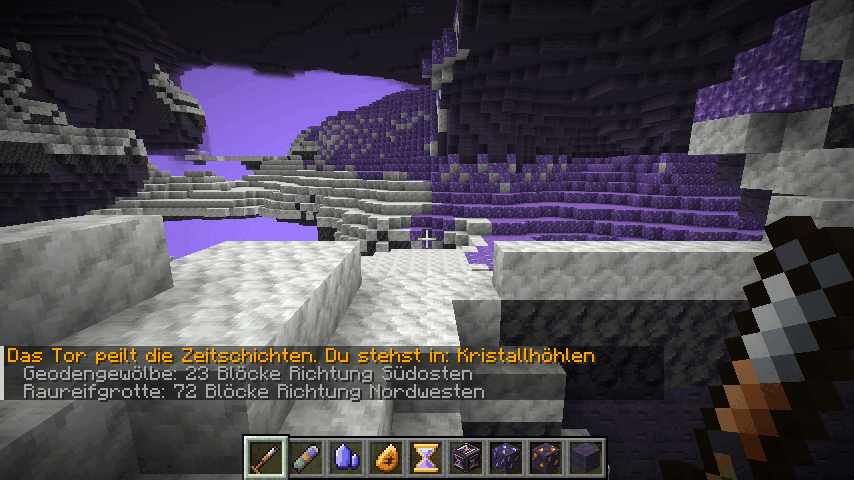
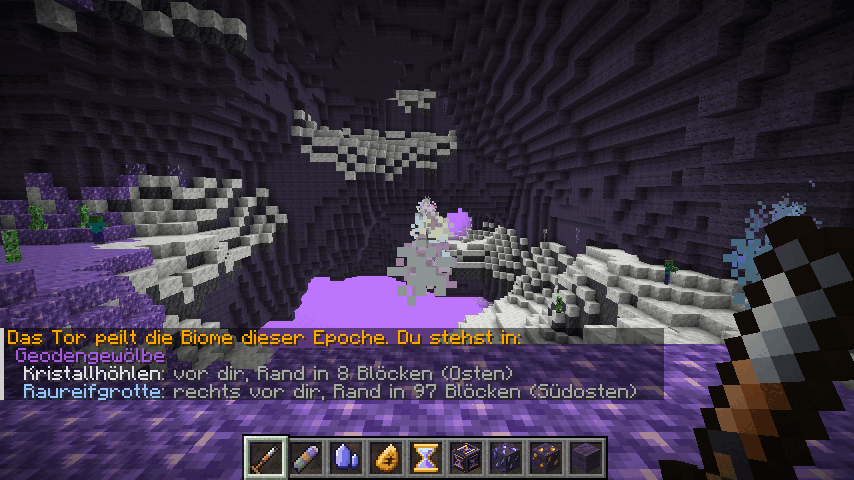
Biom-Peilung: Änderungen aus Prüfung (7/5/6)
Richtung relativ zur Blickrichtung ("rechts vor dir"), Himmelsrichtung in
Klammern, Entfernung als "Rand in N Blöcken". Farbige Partikelspur zu
jedem Biom (5 s), Biomnamen im Chat in derselben Farbe. Nahe Grenzen fein
(Raster 4 bis 48 Blöcke), weiter grob und pro 16er-Feld gecacht; Cooldown
2 s. Rückreise erst beim zweiten Klick innerhalb von 3 s, damit niemand aus
Versehen heimreist. Selbsttest prüft relative Richtungen, Cache, Laufzeit
und alle Sprachschlüssel.

Claude-Session: https://claude.ai/code/session_01Ctsg8SxXVHQPATnSMNydJr

diff --git a/epochs/src/shared/java/dev/strata/epochs/BiomeBearing.java b/epochs/src/shared/java/dev/strata/epochs/BiomeBearing.java
@@ -1,86 +1,224 @@
 package dev.strata.epochs;
 
+import dev.strata.core.mc.Mc;
+import dev.strata.epochs.mc.MobCompat;
 import java.util.ArrayList;
 import java.util.HashMap;
+import java.util.Iterator;
+import java.util.LinkedHashMap;
 import java.util.List;
 import java.util.Map;
+import java.util.UUID;
 import net.minecraft.ChatFormatting;
 import net.minecraft.core.BlockPos;
 import net.minecraft.network.chat.Component;
 import net.minecraft.server.level.ServerLevel;
 import net.minecraft.server.level.ServerPlayer;
+import net.minecraft.world.phys.Vec3;
+import net.neoforged.neoforge.event.tick.LevelTickEvent;
 
 /**
- * Peilung im Epochentor: In welchem Biom der Epoche steht man, und in welcher Richtung und Entfernung liegen
- * die anderen? Damit man in der knappen Zeit gezielt zu einem Nebenbiom (mehr Erz) gehen kann.
+ * Peilung im Epochentor: In welchem Biom der Epoche steht man, und wo liegen die anderen? Unter Tage gibt es
+ * keine Sonne und keinen Kompass, deshalb nennt die Peilung die Richtung relativ zur Blickrichtung („rechts vor
+ * dir“) und zeigt sie 5 s lang als farbige Partikelspur vom Spieler aus. Die Himmelsrichtung steht in Klammern.
  *
- * <p>Gesucht wird direkt in der Biom-Quelle der Dimension (ohne Chunks zu laden), auf einem Raster von 16 Blöcken
- * bis {@link #RANGE} Blöcke weit.
+ * <p>Gesucht wird in der Biom-Quelle der Dimension (ohne Chunks zu laden) auf einem Raster von 16 Blöcken bis
+ * {@link #RANGE} Blöcke weit. Das Ergebnis wird pro 16er-Feld zwischengespeichert, und jeder Spieler kann höchstens
+ * alle {@link #COOLDOWN_TICKS} Ticks peilen.
  */
 public final class BiomeBearing {
 
     /** Wie weit die Peilung reicht (Nebenbiome liegen laut Selbsttest höchstens 300 Blöcke vom Ankunftsort). */
     public static final int RANGE = 384;
+    public static final int COOLDOWN_TICKS = 40;
     private static final int STEP = 16;
+    private static final int TRAIL_TICKS = 100;
+    private static final int NEAR_RANGE = 48;
+    private static final int NEAR_STEP = 4;
     private static final String[] WINDS = {"n", "ne", "e", "se", "s", "sw", "w", "nw"};
+    private static final String[] SIDES = {"ahead", "ahead_right", "right", "behind_right", "behind", "behind_left", "left", "ahead_left"};
+
+    /** Farbe der Spur und des Namens: die Farbe des Bodens, an dem man das Biom erkennt. */
+    private static final Map<String, Integer> COLORS = Map.of(
+            "crystal_hollows", 0xE8E4F0, "geode_vaults", 0xA65CE0, "rime_grotto", 0x9CC8FF,
+            "spore_grotto", 0xB49AB4, "moss_marsh", 0x6FA832, "glow_thicket", 0x2FCFB4,
+            "ash_wastes", 0xB0A49A, "magma_rifts", 0xFF6A1A, "bone_hollow", 0xE8E0C8);
+
+    private static final Map<String, List<Target>> CACHE = new LinkedHashMap<>(64, 0.75f, true) {
+        @Override
+        protected boolean removeEldestEntry(Map.Entry<String, List<Target>> eldest) {
+            return size() > 256;
+        }
+    };
+    private static final Map<UUID, Long> LAST_USE = new HashMap<>();
+    private static final List<Trail> TRAILS = new ArrayList<>();
 
     private BiomeBearing() {}
 
-    /** Ein anderes Biom: Name (Biom-ID), Entfernung in Blöcken, Himmelsrichtung (n, ne, … nw). */
-    public record Target(String biome, int distance, String wind) {}
+    /** Ein anderes Biom: ID, Versatz zur nächsten Stelle (Rand des Bioms) und Entfernung in Blöcken. */
+    public record Target(String biome, int dx, int dz, int distance) {
+        public String wind() {
+            return BiomeBearing.wind(dx, dz);
+        }
+    }
+
+    private record Trail(ServerLevel level, Vec3 from, Vec3 dir, int color, long until) {}
 
     /** Biom-ID an einer Stelle (aus der Biom-Quelle, ohne Chunk zu laden). */
     public static String biomeAt(ServerLevel level, BlockPos pos) {
         return level.getUncachedNoiseBiome(pos.getX() >> 2, pos.getY() >> 2, pos.getZ() >> 2).getRegisteredName();
     }
 
-    /** Die nächste Stelle jedes anderen Bioms der Dimension, nach Entfernung sortiert. */
+    /** Die nächste Stelle jedes anderen Bioms der Dimension, nach Entfernung sortiert (ungecacht). */
     public static List<Target> scan(ServerLevel level, BlockPos from) {
-        String here = biomeAt(level, from);
+        return scan(level, from, biomeAt(level, from));
+    }
+
+    /** Wie {@link #scan(ServerLevel, BlockPos)}; {@code here} wird ausgelassen (null: alle Biome, auch das eigene). */
+    private static List<Target> scan(ServerLevel level, BlockPos from, String here) {
+        return scan(level, from, here, RANGE, STEP);
+    }
+
+    private static List<Target> scan(ServerLevel level, BlockPos from, String here, int range, int step) {
         Map<String, int[]> best = new HashMap<>();   // Biom -> {dx, dz, Abstand²}
-        for (int dx = -RANGE; dx <= RANGE; dx += STEP) {
-            for (int dz = -RANGE; dz <= RANGE; dz += STEP) {
+        for (int dx = -range; dx <= range; dx += step) {
+            for (int dz = -range; dz <= range; dz += step) {
                 int d2 = dx * dx + dz * dz;
-                if (d2 > RANGE * RANGE) continue;
+                if (d2 > range * range) continue;
                 String id = biomeAt(level, from.offset(dx, 0, dz));
-                if (id.equals(here)) continue;
+                if (id.equals(here)) continue;   // here == null: alle Biome behalten
                 int[] b = best.get(id);
                 if (b == null || d2 < b[2]) best.put(id, new int[] {dx, dz, d2});
             }
         }
         List<Target> result = new ArrayList<>();
-        best.forEach((id, b) -> result.add(new Target(id, (int) Math.round(Math.sqrt(b[2])), wind(b[0], b[1]))));
+        best.forEach((id, b) -> result.add(new Target(id, b[0], b[1], (int) Math.round(Math.sqrt(b[2])))));
         result.sort((a, b) -> Integer.compare(a.distance(), b.distance()));
         return result;
     }
 
-    /** Himmelsrichtung eines Versatzes: Norden ist −Z, Osten +X. */
-    public static String wind(int dx, int dz) {
-        double angle = Math.toDegrees(Math.atan2(dx, -dz));   // 0 = Norden, 90 = Osten
-        int index = (int) Math.floorMod(Math.round(angle / 45.0), 8);
-        return WINDS[index];
+    /**
+     * Nächste Stelle JEDES Bioms (auch des eigenen) vom Mittelpunkt des 16er-Feldes aus, zwischengespeichert pro
+     * Dimension und Feld (das Ergebnis ändert sich nie). Das eigene Biom des Spielers filtert {@link #tell} heraus,
+     * denn an Biomgrenzen kann der Feldmittelpunkt in einem anderen Biom liegen als der Spieler.
+     */
+    public static List<Target> scanCached(ServerLevel level, BlockPos from) {
+        BlockPos cell = new BlockPos(from.getX() & ~15 | 8, from.getY(), from.getZ() & ~15 | 8);
+        String key = Mc.levelId(level) + "@" + cell.getX() + "," + cell.getZ();
+        synchronized (CACHE) {
+            return CACHE.computeIfAbsent(key, k -> scan(level, cell, null));
+        }
     }
 
-    /** Schickt dem Spieler die Peilung als Chatzeilen (bleiben lesbar, anders als die Aktionsleiste). */
-    public static void tell(ServerPlayer player) {
-        if (!(player.level() instanceof ServerLevel level)) return;
+    /** Himmelsrichtung eines Versatzes: Norden ist −Z, Osten +X. */
+    public static String wind(int dx, int dz) {
+        return WINDS[sector(Math.toDegrees(Math.atan2(dx, -dz)))];
+    }
+
+    /**
+     * Richtung relativ zur Blickrichtung: ahead, ahead_right, right, … ahead_left.
+     * Minecraft-Yaw: 0 = Süden, 90 = Westen, 180 = Norden, 270 = Osten.
+     */
+    public static String side(int dx, int dz, float yaw) {
+        double target = Math.toDegrees(Math.atan2(dx, -dz));   // 0 = Norden, 90 = Osten
+        double facing = yaw + 180.0;                            // gleiche Skala für die Blickrichtung
+        return SIDES[sector(target - facing)];
+    }
+
+    private static int sector(double degrees) {
+        return (int) Math.floorMod(Math.round(degrees / 45.0), 8);
+    }
+
+    /** Alle Sprachschlüssel, die eine Peilung braucht (für den Selbsttest). */
+    public static List<String> translationKeys(List<String> biomes) {
+        List<String> keys = new ArrayList<>(List.of("message.strata_epochs.bearing.here", "message.strata_epochs.bearing.target",
+                "message.strata_epochs.bearing.none", "message.strata_epochs.bearing.wait"));
+        for (String w : WINDS) keys.add("message.strata_epochs.bearing.wind." + w);
+        for (String s : SIDES) keys.add("message.strata_epochs.bearing.side." + s);
+        for (String b : biomes) keys.add(biomeKey(b));
+        return keys;
+    }
+
+    /**
+     * Peilung für einen Spieler: Chatzeilen plus Partikelspuren. Gibt false zurück, wenn der Spieler gerade
+     * erst gepeilt hat (Cooldown).
+     */
+    public static boolean tell(ServerPlayer player) {
+        if (!(player.level() instanceof ServerLevel level)) return false;
+        long now = level.getGameTime();
+        Long last = LAST_USE.get(player.getUUID());
+        if (last != null && now - last < COOLDOWN_TICKS) {
+            Mc.actionbar(player, Component.translatable("message.strata_epochs.bearing.wait").withStyle(ChatFormatting.GRAY));
+            return false;
+        }
+        LAST_USE.put(player.getUUID(), now);
         BlockPos at = player.blockPosition();
-        player.sendSystemMessage(Component.translatable("message.strata_epochs.bearing.here", biomeName(biomeAt(level, at)))
+        String here = biomeAt(level, at);
+        player.sendSystemMessage(Component.translatable("message.strata_epochs.bearing.here", biomeName(here))
                 .withStyle(ChatFormatting.GOLD));
-        List<Target> targets = scan(level, at);
+        List<Target> targets = scanCached(level, at).stream().filter(t -> !t.biome().equals(here)).toList();
         if (targets.isEmpty()) {
             player.sendSystemMessage(Component.translatable("message.strata_epochs.bearing.none").withStyle(ChatFormatting.GRAY));
-            return;
+            return true;
         }
-        for (Target t : targets) {
+        // Nahe Grenzen genauer: im Umkreis von 48 Blöcken auf einem Raster von 4 vom Spieler aus suchen.
+        Map<String, Target> near = new HashMap<>();
+        for (Target t : scan(level, at, here, NEAR_RANGE, NEAR_STEP)) near.put(t.biome(), t);
+        Vec3 eye = player.position().add(0, 1.2, 0);
+        BlockPos cell = new BlockPos(at.getX() & ~15 | 8, at.getY(), at.getZ() & ~15 | 8);
+        for (Target far : targets) {
+            Target local = near.get(far.biome());
+            // Versatz vom Spieler aus: nah aus der feinen Suche, sonst vom Feldmittelpunkt umgerechnet.
+            int dx = local != null ? local.dx() : cell.getX() + far.dx() - at.getX();
+            int dz = local != null ? local.dz() : cell.getZ() + far.dz() - at.getZ();
+            Target t = far;
+            int distance = (int) Math.round(Math.sqrt((double) dx * dx + (double) dz * dz));
             player.sendSystemMessage(Component.translatable("message.strata_epochs.bearing.target", biomeName(t.biome()),
-                    t.distance(), Component.translatable("message.strata_epochs.bearing.wind." + t.wind()))
+                    Component.translatable("message.strata_epochs.bearing.side." + side(dx, dz, player.getYRot())), distance,
+                    Component.translatable("message.strata_epochs.bearing.wind." + wind(dx, dz)))
                     .withStyle(ChatFormatting.GRAY));
+            double len = Math.max(1, Math.sqrt((double) dx * dx + (double) dz * dz));
+            synchronized (TRAILS) {
+                TRAILS.add(new Trail(level, eye, new Vec3(dx / len, 0, dz / len), color(t.biome()), now + TRAIL_TICKS));
+            }
         }
+        return true;
+    }
+
+    /** Partikelspuren: 8 Blöcke lang, wandernde Punkte vom Spieler weg in Richtung des Bioms. */
+    static void onLevelTick(LevelTickEvent.Post event) {
+        if (TRAILS.isEmpty() || !(event.getLevel() instanceof ServerLevel level)) return;
+        long now = level.getGameTime();
+        synchronized (TRAILS) {
+            for (Iterator<Trail> it = TRAILS.iterator(); it.hasNext(); ) {
+                Trail t = it.next();
+                if (t.level() != level) continue;
+                if (now > t.until()) {
+                    it.remove();
+                    continue;
+                }
+                if (now % 2 != 0) continue;
+                var dust = MobCompat.dust(t.color(), 1.2f);
+                double phase = (now % 20) / 20.0;
+                for (int i = 0; i < 8; i++) {
+                    Vec3 p = t.from().add(t.dir().scale(2.5 + i + phase));
+                    level.sendParticles(dust, p.x, p.y, p.z, 1, 0.03, 0.03, 0.03, 0);
+                }
+            }
+        }
+    }
+
+    private static int color(String biome) {
+        return COLORS.getOrDefault(biome.substring(biome.indexOf(':') + 1), 0xFFFFFF);
+    }
+
+    private static String biomeKey(String id) {
+        int colon = id.indexOf(':');
+        return "biome." + id.substring(0, colon) + "." + id.substring(colon + 1);
     }
 
     private static Component biomeName(String id) {
-        int colon = id.indexOf(':');
-        return Component.translatable("biome." + id.substring(0, colon) + "." + id.substring(colon + 1));
+        int rgb = color(id);
+        return Component.translatable(biomeKey(id)).withStyle(style -> style.withColor(rgb));
     }
 }

diff --git a/epochs/src/shared/java/dev/strata/epochs/SelfTest.java b/epochs/src/shared/java/dev/strata/epochs/SelfTest.java
@@ -85,6 +85,19 @@ final class SelfTest {
         persistTest(server);
     }
 
+    /** Sprachschlüssel von Strata Epochs (de_de, en_us). */
+    private static final Map<String, java.util.Set<String>> LANG = Map.of("de_de", langKeys("de_de"), "en_us", langKeys("en_us"));
+
+    private static java.util.Set<String> langKeys(String lang) {
+        try (var in = SelfTest.class.getResourceAsStream("/assets/" + StrataEpochs.MOD_ID + "/lang/" + lang + ".json")) {
+            if (in == null) return java.util.Set.of();
+            return com.google.gson.JsonParser.parseReader(new java.io.InputStreamReader(in, java.nio.charset.StandardCharsets.UTF_8))
+                    .getAsJsonObject().keySet();
+        } catch (java.io.IOException | RuntimeException e) {
+            return java.util.Set.of();
+        }
+    }
+
     /** Ereignisse aus sounds.json mit ihren Dateien (Format "ns:pfad", ohne .ogg). */
     private static final Map<String, List<String>> SOUNDS = readSounds();
 
@@ -500,7 +513,20 @@ final class SelfTest {
             String here = BiomeBearing.biomeAt(level, origin);
             var targets = BiomeBearing.scan(level, origin);
             boolean winds = BiomeBearing.wind(0, -10).equals("n") && BiomeBearing.wind(10, 0).equals("e")
-                    && BiomeBearing.wind(-10, 10).equals("sw") && BiomeBearing.wind(7, -7).equals("ne");
+                    && BiomeBearing.wind(-10, 10).equals("sw") && BiomeBearing.wind(7, -7).equals("ne")
+                    // Relativ zur Blickrichtung: Yaw 180 = nach Norden, Yaw 0 = nach Süden.
+                    && BiomeBearing.side(0, -10, 180).equals("ahead") && BiomeBearing.side(10, 0, 180).equals("right")
+                    && BiomeBearing.side(10, 0, 0).equals("left") && BiomeBearing.side(-7, -7, 270).equals("behind_left");
+            // Gecachte Peilung: enthält alle Biome (auch das eigene des Feldes), damit tell() an Grenzen richtig filtert.
+            winds &= BiomeBearing.scanCached(level, origin).size() == counts.size();
+            long t0 = System.nanoTime();
+            BiomeBearing.scan(level, origin.offset(1000, 0, 1000));
+            long scanMs = (System.nanoTime() - t0) / 1_000_000;
+            List<String> missingKeys = new ArrayList<>();
+            for (String key : BiomeBearing.translationKeys(new ArrayList<>(counts.keySet()))) {
+                for (String lang : List.of("de_de", "en_us")) if (!LANG.get(lang).contains(key)) missingKeys.add(lang + ":" + key);
+            }
+            winds &= missingKeys.isEmpty() && scanMs < 200;
             boolean bearing = winds && targets.size() == counts.size() - 1;
             for (var t : targets) {
                 BlockPos n = nearest.get(t.biome());
@@ -508,7 +534,8 @@ final class SelfTest {
             }
             if (!bearing) ok = false;
             parts.add("Peilung " + targets.stream().map(t -> t.biome().substring(t.biome().indexOf(':') + 1) + " " + t.distance() + " " + t.wind())
-                    .collect(java.util.stream.Collectors.joining("/")) + " (hier " + here.substring(here.indexOf(':') + 1) + ")" + (bearing ? "" : " (!)"));
+                    .collect(java.util.stream.Collectors.joining("/")) + " (hier " + here.substring(here.indexOf(':') + 1) + ", " + scanMs + " ms"
+                    + (missingKeys.isEmpty() ? "" : ", Texte fehlen " + missingKeys) + ")" + (bearing ? "" : " (!)"));
             // Knochensenke: Netherfossilien (Biom-Tag has_structure/nether_fossil) müssen in der Nähe liegen.
             BlockPos hollow = core.getOrDefault(StrataEpochs.id("bone_hollow"), nearest.get(StrataEpochs.id("bone_hollow")));
             if (hollow != null) {

diff --git a/epochs/src/shared/java/dev/strata/epochs/EpochInteractions.java b/epochs/src/shared/java/dev/strata/epochs/EpochInteractions.java
@@ -24,6 +24,8 @@ import net.neoforged.neoforge.event.entity.player.PlayerInteractEvent;
 final class EpochInteractions {
 
     static final int DRILL_COOLDOWN_TICKS = 40;
+    static final int LEAVE_CONFIRM_TICKS = 60;
+    private static final java.util.Map<java.util.UUID, Long> LEAVE_ARMED = new java.util.HashMap<>();
 
     private EpochInteractions() {}
 
@@ -87,9 +89,21 @@ final class EpochInteractions {
     private static void useGate(ServerPlayer player, ItemStack held) {
         ServerLevel level = (ServerLevel) player.level();
         if (EpochTravel.epochOf(level).isPresent()) {
-            // Schleichen: Peilung der Biome statt Rückreise.
-            if (player.isShiftKeyDown()) BiomeBearing.tell(player);
-            else EpochTravel.leave(player);
+            // Schleichen: Peilung der Biome. Sonst Rückreise, aber erst beim zweiten Klick innerhalb von 3 s,
+            // damit niemand aus Versehen heimreist, der nur peilen wollte.
+            if (player.isShiftKeyDown()) {
+                BiomeBearing.tell(player);
+                return;
+            }
+            long now = level.getGameTime();
+            Long armed = LEAVE_ARMED.get(player.getUUID());
+            if (armed != null && now - armed <= LEAVE_CONFIRM_TICKS) {
+                LEAVE_ARMED.remove(player.getUUID());
+                EpochTravel.leave(player);
+            } else {
+                LEAVE_ARMED.put(player.getUUID(), now);
+                Mc.actionbar(player, Component.translatable("message.strata_epochs.gate.confirm_leave").withStyle(ChatFormatting.YELLOW));
+            }
             return;
         }
         Optional<String> epoch = CoreSamples.epochOf(held);

diff --git a/epochs/src/shared/java/dev/strata/epochs/StrataEpochs.java b/epochs/src/shared/java/dev/strata/epochs/StrataEpochs.java
@@ -36,6 +36,7 @@ public final class StrataEpochs {
         NeoForge.EVENT_BUS.addListener(CoreAnalysis::onRightClickBlock);
         NeoForge.EVENT_BUS.addListener(Transplanter::onRightClickBlock);
         NeoForge.EVENT_BUS.addListener(Transplanter::onLevelTick);
+        NeoForge.EVENT_BUS.addListener(BiomeBearing::onLevelTick);
         NeoForge.EVENT_BUS.addListener(Transplanter::onServerStopping);
         NeoForge.EVENT_BUS.addListener(Transplanter::onServerStarted);
         NeoForge.EVENT_BUS.addListener(EpochsCommands::onRegisterCommands);

diff --git a/README.md b/README.md
@@ -46,13 +46,13 @@ Nicht jede 1.21-Zwischenversion (1.21.2 bis 1.21.10) wird unterstützt. Modpacks
 2. **Epochentor** bauen (Obsidian, Amethyst, Kompass) und mit dem Bohrkern rechtsklicken. Der Kern wird verbraucht, und du landest in der Epoche. Neben dir steht ein Tor für den Rückweg.
 ![Die neun Biome (Minecraft 1.21.1, mit Nachtsicht)](docs/screenshots/biomes/uebersicht_1.21.1.png)
 
-3. Alle drei Epochen sind Höhlenwelten aus **Zeitgestein** mit je **drei Biomen**. Wo du ankommst, hängt von deinem Ort in der Oberwelt ab. Das Hauptbiom nimmt gut die Hälfte ein, die beiden anderen sind kleiner und lohnen sich mit mehr Epochen-Erz. Sie liegen höchstens 300 Blöcke vom Ankunftsort entfernt (Selbsttest), meist deutlich näher. Der Ankunftsplatz steht immer auf sicherem Boden, nie auf Magma. Bei der Ankunft **peilt das Tor die Biome**: Im Chat steht, in welchem Biom du bist und in welcher Richtung und Entfernung die anderen beiden liegen. Schleichen + Rechtsklick auf das Tor wiederholt die Peilung von deinem Standort aus:
+3. Alle drei Epochen sind Höhlenwelten aus **Zeitgestein** mit je **drei Biomen**. Wo du ankommst, hängt von deinem Ort in der Oberwelt ab. Das Hauptbiom nimmt gut die Hälfte ein, die beiden anderen sind kleiner und lohnen sich mit mehr Epochen-Erz. Sie liegen höchstens 300 Blöcke vom Ankunftsort entfernt (Selbsttest), meist deutlich näher. Der Ankunftsplatz steht immer auf sicherem Boden, nie auf Magma. Bei der Ankunft **peilt das Tor die Biome**: Im Chat steht, in welchem Biom du bist und wo die anderen beiden liegen, relativ zu deiner Blickrichtung („rechts vor dir, Rand in 40 Blöcken“). Eine farbige Partikelspur zeigt 5 s lang in die Richtung. Schleichen + Rechtsklick auf das Tor peilt erneut (höchstens alle 2 s). Für den Rückweg klickst du das Tor zweimal an:
    - **Kristallzeit** (Kristallquarz): *Kristallhöhlen* (Calcit), *Geodengewölbe* (Amethystboden, viele Geoden, mehr Kristallquarz), *Raureifgrotte* (Packeis und Schnee, Eiswanderer).
    - **Sporenzeit** (Bernstein): *Sporengrotte* (Myzel), *Moosmoor* (Schlamm, Moos und Lehmtümpel mit Tropfblatt), *Leuchtdickicht* (Wirrnyzel mit Wirrpilzen und Zwirbelranken).
    - **Aschezeit** (Glutsteinerz, liefert **Glutsplitter**, Brennstoff wie eine Lohenrute): *Aschewüste* (Vulkanasche über Basalt), *Magmaspalten* (Schwarzstein mit Magma-Rissen und Lavaseen, viel Glutsteinerz, der Glutwühler kann hier nicht abtauchen; die gefährlichste Zone), *Knochensenke* (Seelenerde mit Netherfossilien).
 4. **Verfestigung:** Nach 75 % der erlaubten Zeit (Kristallzeit 10 min, Sporenzeit 7 min, Aschezeit 5 min) kommt eine Warnung. Danach wirst du langsamer, und um dich herum versteinern Blöcke.
 5. Ein **Zeitanker** im Inventar (Kristallquarz, Bernstein, Gold) verdoppelt die erlaubte Zeit.
-6. Rechtsklick auf das Tor bringt dich zurück. Tore in Epochen lassen sich nicht abbauen, damit der Rückweg nie verloren geht.
+6. Zweimal Rechtsklick auf das Tor (innerhalb von 3 s) bringt dich zurück. Tore in Epochen lassen sich nicht abbauen, damit der Rückweg nie verloren geht.
 
 **Kernanalyse-Tisch** (Kupfer, Fernrohr, Holz, Steinstufe): Rechtsklick mit Bohrkernen analysiert den Stapel. Die Notiz am Kern zeigt:
 - Tiefe und Zeitlimit
@@ -115,7 +115,7 @@ Kodex-Knoten werden automatisch freigeschaltet:
 | Mod | Was Strata Bridge macht |
 |---|---|
 | **JEI** | Infoseiten für Kernbohrer, Bohrkern, Epochentor, Zeitanker, beide Erze und versteinerten Stein. Für **EMI** (nur 1.21.1) gibt es ein eigenes Plugin mit denselben Infoseiten; im Client mit EMI geladen (`GRADLE_ARGS=-PwithEmi`). |
-| **Jade** | Hinweis beim Anschauen: am Tor „Reise in die Epoche“ bzw. in der Epoche „Rückweg nach Hause“, an Erzen der Fundort. |
+| **Jade** | Hinweis beim Anschauen: am Tor „Reise in die Epoche“ bzw. in der Epoche „2× Rechtsklick: Rückweg, Schleichen: Biome peilen“, an Erzen der Fundort. |
 | **FTB Quests, Heracles & Co.** | Für jeden Kodex-Knoten `ns:pfad` vergibt Strata das Advancement `ns:strata_codex/pfad`, falls es existiert. Quests prüfen das als Advancement-Aufgabe. Für die Knoten von Strata Epochs sind die Advancements dabei. Als Quest-Belohnung schaltet `/strata codex grant @p <knoten>` Knoten frei. |
 | **Curios** | Der Zeitanker passt in den Talisman-Slot und wirkt dort wie im Inventar (Spieler bekommen den Slot per Datapack). Gebaut für alle Versionen. Geprüft in 1.21.1 (Server-Test mit simuliertem Spieler) und 26.3 (Client mit echtem Spieler, `SHOT_CURIOS=1`). Andere Mods können über `Solidification.ANCHOR_SOURCES` eigene Orte für den Zeitanker anmelden. |
 | **KubeJS** (1.21.1 und 26.1) | Plugin mit den Bindings `StrataAPI` (Kodex: `hasNode`, `unlock`, `epochs` …) und `Strata` (`coreSample`, `fossilChunk`, `epochOf`, `timeBonus`, `hasTimeAnchor`, `transplant`). Freischaltungen kommen als NeoForge-Event: `NativeEvents.onEvent('dev.strata.core.api.CodexNodeUnlockedEvent', e => …)`. Geprüft mit `scripts/kubejs-test.sh` in beiden Versionen. |
